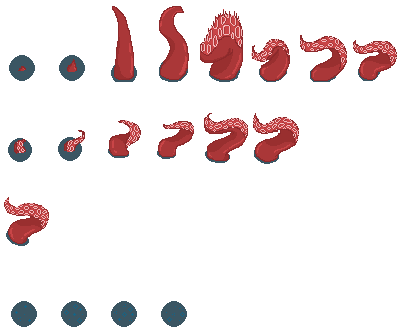
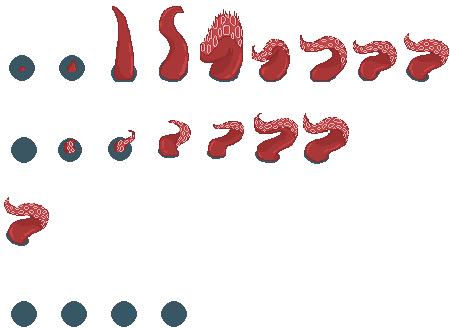
Added Tentacle Bubble Animation

diff --git a/src/app/entities/projectile.cpp b/src/app/entities/projectile.cpp
@@ -47,7 +47,7 @@ Projectile::Projectile() : PSInterfaces::IEntity("projectile")
 	m_p_small_blood_splat_sprite  = PRELOAD_TEXTURE("projectile_small_blood_splat", "resources/vfx/8x8_blood_splatter.png", hit_anim_frame_grid);
 	m_p_small_blood_splat_texture = m_p_small_blood_splat_sprite->m_s_texture;
 	m_p_small_blood_splat_controller =
-			PSCore::sprites::SpriteSheetAnimation(m_p_small_blood_splat_texture, {{6, 0.05, PSCore::sprites::Forward, m_p_z_index}});
+			PSCore::sprites::SpriteSheetAnimation(m_p_small_blood_splat_texture, {{6, 0.1, PSCore::sprites::Forward, m_p_z_index}});
 	m_p_small_blood_splat_controller.add_animation_at_index(0, m_p_z_index);
 
 	// Big Blood Splat (tentacle)

diff --git a/src/app/entities/tentacle.cpp b/src/app/entities/tentacle.cpp
@@ -28,7 +28,7 @@ tentacle::tentacle() : PSInterfaces::IEntity("tentacle")
 	sp_data.push_back({9, 0.1, PSCore::sprites::Forward, 1});
 	sp_data.push_back({7, 0.1, PSCore::sprites::Backward, 1});
 	sp_data.push_back({2, 1, PSCore::sprites::KeyFrame, 1});
-	sp_data.push_back({1, 1, PSCore::sprites::KeyFrame, 0});
+	sp_data.push_back({4, 0.15, PSCore::sprites::Forward, 0});
 
 	m_animation_controller = PSCore::sprites::SpriteSheetAnimation(m_tentacle_sprite->m_s_texture, sp_data);
 
